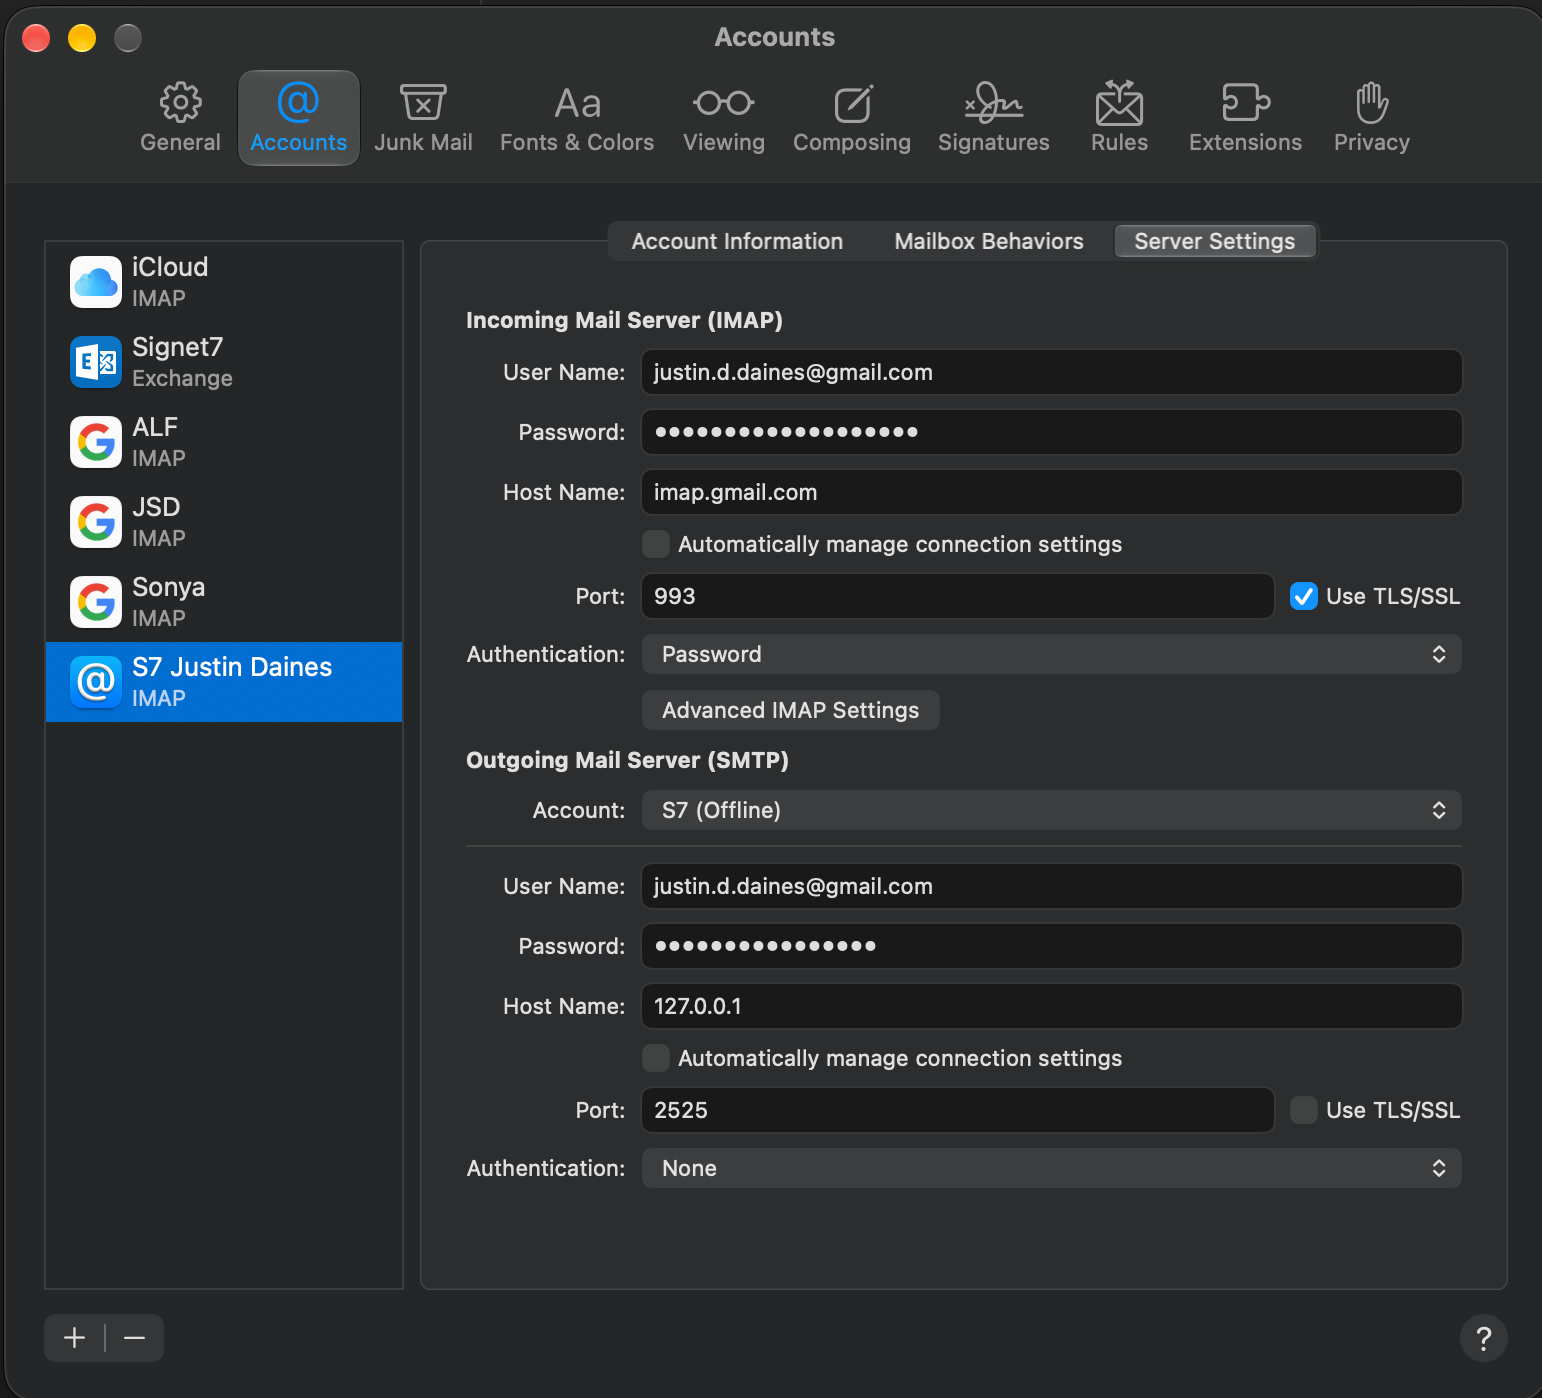
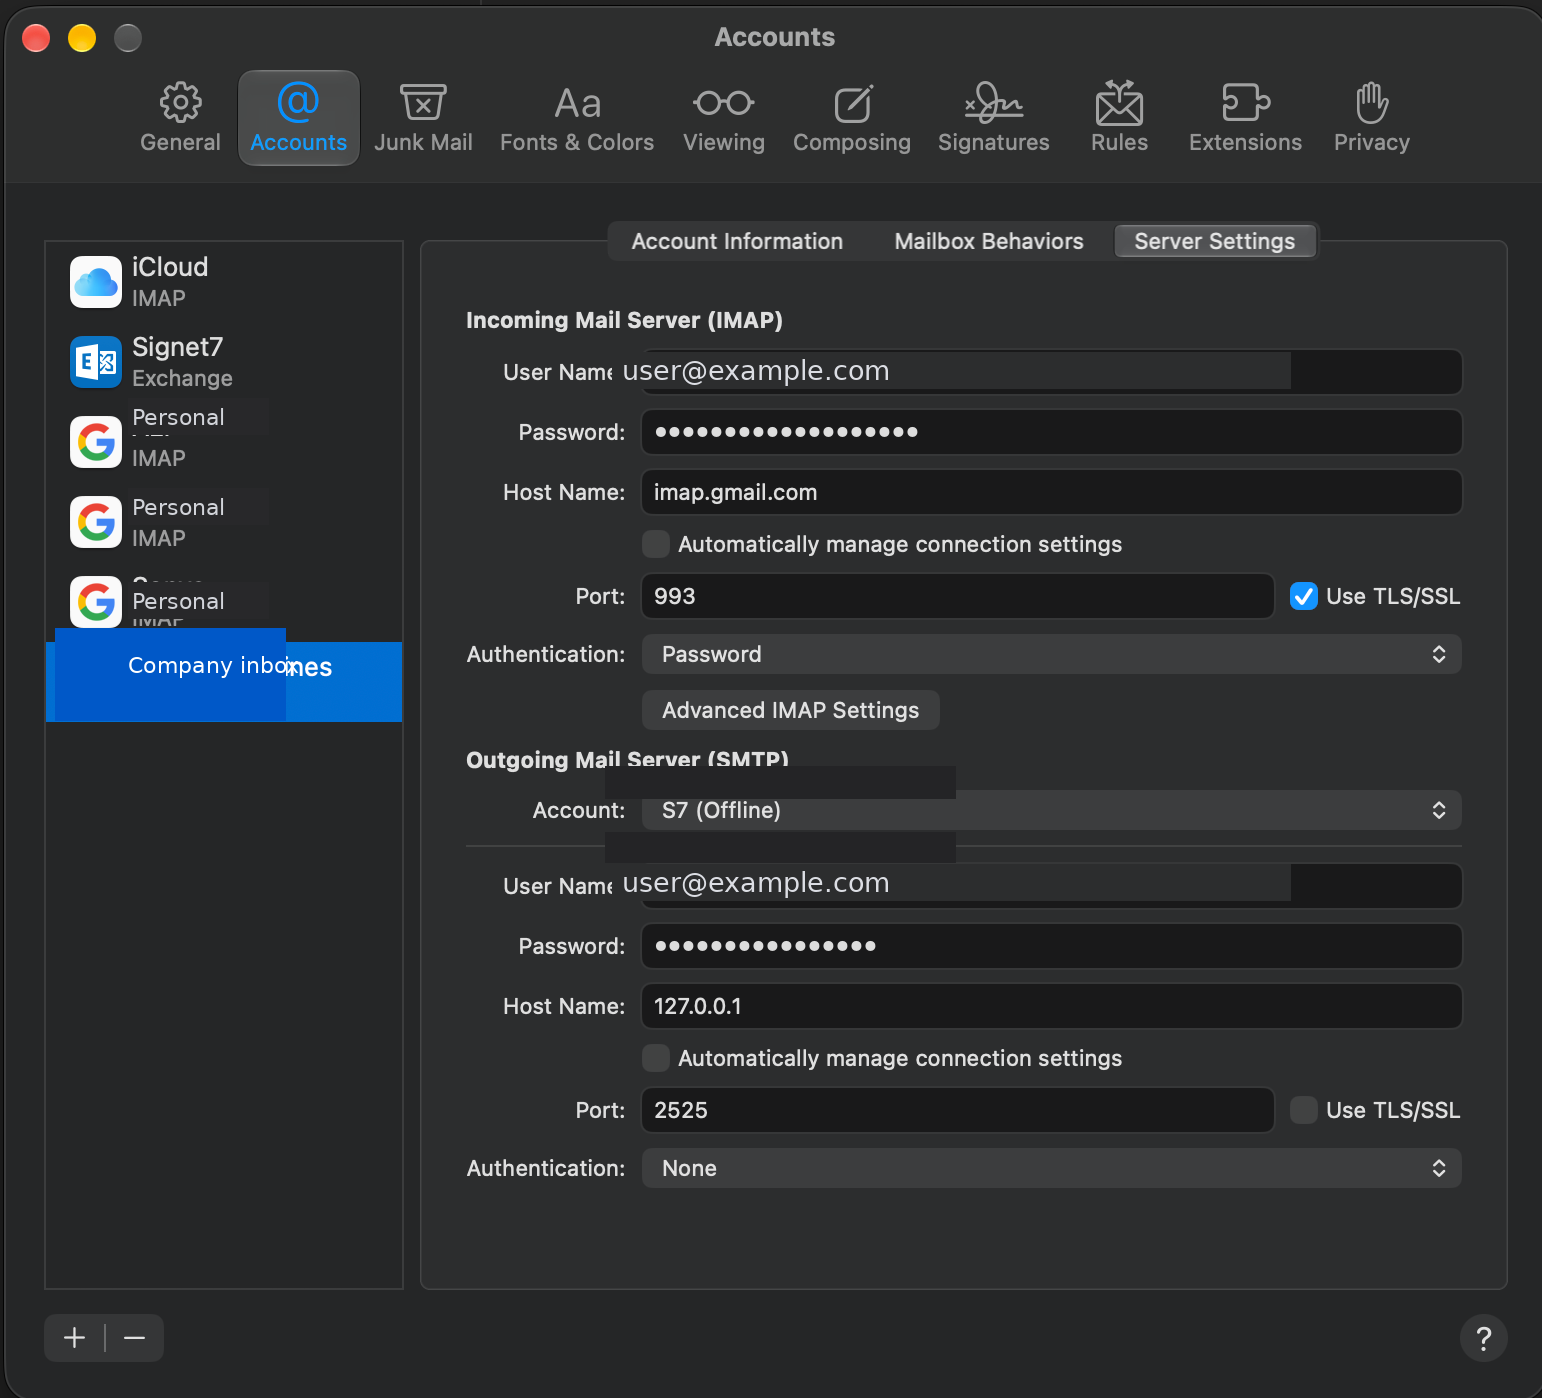
docs: redact personal data from Apple Mail doc screenshots
Replace visible names and mailbox addresses in the three captured
figures with generic placeholders and sidebar labels suitable for the
public site.

diff --git a/tools/sanitize_apple_mail_doc_figures.py b/tools/sanitize_apple_mail_doc_figures.py
@@ -1,0 +1,142 @@
+#!/usr/bin/env python3
+"""One-off sanitizer for public Apple Mail doc screenshots."""
+from __future__ import annotations
+
+from pathlib import Path
+
+from PIL import Image, ImageDraw, ImageFont
+
+ROOT = Path(__file__).resolve().parents[1]
+ASSETS = ROOT / "assets"
+
+FONT_PATHS = (
+    "/usr/share/fonts/truetype/dejavu/DejaVuSans.ttf",
+    "/usr/share/fonts/truetype/liberation/LiberationSans-Regular.ttf",
+)
+
+
+def _font(size: int) -> ImageFont.FreeTypeFont | ImageFont.ImageFont:
+    for path in FONT_PATHS:
+        if Path(path).is_file():
+            return ImageFont.truetype(path, size)
+    return ImageFont.load_default()
+
+
+def _median_rgb(samples: list[tuple[int, int, int]]) -> tuple[int, int, int]:
+    rs = sorted(s for s, _, _ in samples)
+    gs = sorted(g for _, g, _ in samples)
+    bs = sorted(b for _, _, b in samples)
+    mid = len(samples) // 2
+    return rs[mid], gs[mid], bs[mid]
+
+
+def _field_fill(im: Image.Image, box: tuple[int, int, int, int]) -> tuple[int, int, int]:
+    x0, y0, x1, y1 = box
+    pts = [
+        im.getpixel((x0 + 8, y0 + (y1 - y0) // 2)),
+        im.getpixel((x0 + 20, y0 + (y1 - y0) // 2)),
+        im.getpixel((x1 - 12, y0 + (y1 - y0) // 2)),
+    ]
+    return _median_rgb([tuple(p[:3]) for p in pts])
+
+
+def _paint_field(
+    draw: ImageDraw.ImageDraw,
+    im: Image.Image,
+    box: tuple[int, int, int, int],
+    text: str,
+    *,
+    font_size: int = 26,
+) -> None:
+    x0, y0, x1, y1 = box
+    fill = _field_fill(im, box)
+    draw.rectangle([x0, y0, x1, y1], fill=fill)
+    font = _font(font_size)
+    draw.text((x0 + 10, y0 + (y1 - y0 - font_size) // 2 - 2), text, fill=(220, 222, 228), font=font)
+
+
+def _paint_sidebar_title(
+    draw: ImageDraw.ImageDraw,
+    im: Image.Image,
+    box: tuple[int, int, int, int],
+    text: str,
+    *,
+    selected: bool = False,
+    font_size: int = 22,
+) -> None:
+    x0, y0, x1, y1 = box
+    if selected:
+        fill = (0, 88, 200)
+    else:
+        fill = (40, 40, 42)
+    draw.rectangle([x0, y0, x1, y1], fill=fill)
+    font = _font(font_size)
+    color = (255, 255, 255) if selected else (210, 212, 218)
+    draw.text((x0 + 4, y0 + (y1 - y0 - font_size) // 2 - 1), text, fill=color, font=font)
+
+
+def _erase_box(
+    draw: ImageDraw.ImageDraw,
+    im: Image.Image,
+    box: tuple[int, int, int, int],
+    *,
+    fill: tuple[int, int, int] | None = None,
+) -> None:
+    if fill is None:
+        fill = _field_fill(im, box)
+    draw.rectangle(box, fill=fill)
+
+
+def sanitize_server_settings(path: Path) -> None:
+    im = Image.open(path).convert("RGB")
+    draw = ImageDraw.Draw(im)
+    # Incoming / outgoing username fields (value area only).
+    _paint_field(draw, im, (612, 352, 1290, 388), "user@example.com", font_size=27)
+    _paint_field(draw, im, (612, 864, 1290, 900), "user@example.com", font_size=27)
+    _erase_box(draw, im, (605, 832, 955, 862), fill=(36, 36, 38))
+    _erase_box(draw, im, (605, 766, 955, 798), fill=(36, 36, 38))
+    # Sidebar account titles (personal nicknames / names).
+    _paint_sidebar_title(draw, im, (128, 398, 268, 434), "Personal")
+    _paint_sidebar_title(draw, im, (128, 488, 268, 524), "Personal")
+    _paint_sidebar_title(draw, im, (128, 582, 268, 618), "Personal")
+    draw.rectangle([55, 628, 285, 720], fill=(0, 88, 200))
+    font = _font(22)
+    draw.text((128, 652), "Company inbox", fill=(255, 255, 255), font=font)
+    im.save(path, optimize=True)
+
+
+def sanitize_add_account(path: Path) -> None:
+    im = Image.open(path).convert("RGB")
+    draw = ImageDraw.Draw(im)
+    _paint_sidebar_title(draw, im, (128, 398, 268, 434), "Personal")
+    _paint_sidebar_title(draw, im, (128, 488, 268, 524), "Personal")
+    _paint_sidebar_title(draw, im, (128, 582, 268, 618), "Personal")
+    draw.rectangle([55, 628, 285, 720], fill=(0, 88, 200))
+    font = _font(22)
+    draw.text((128, 652), "Company inbox", fill=(255, 255, 255), font=font)
+    im.save(path, optimize=True)
+
+
+def sanitize_desktop_listening(path: Path) -> None:
+    im = Image.open(path).convert("RGB")
+    draw = ImageDraw.Draw(im)
+    _paint_field(draw, im, (518, 638, 1180, 676), "user@example.com", font_size=28)
+    _paint_field(
+        draw,
+        im,
+        (518, 998, 1185, 1036),
+        "user@example.com, company@example.com",
+        font_size=24,
+    )
+    im.save(path, optimize=True)
+
+
+def main() -> None:
+    sanitize_server_settings(ASSETS / "docs-apple-mail-server-settings.png")
+    sanitize_add_account(ASSETS / "docs-apple-mail-add-account.png")
+    sanitize_desktop_listening(ASSETS / "docs-signet7-mailbox-helper.png")
+    print("Sanitized three Apple Mail doc figures.")
+
+
+if __name__ == "__main__":
+    main()
